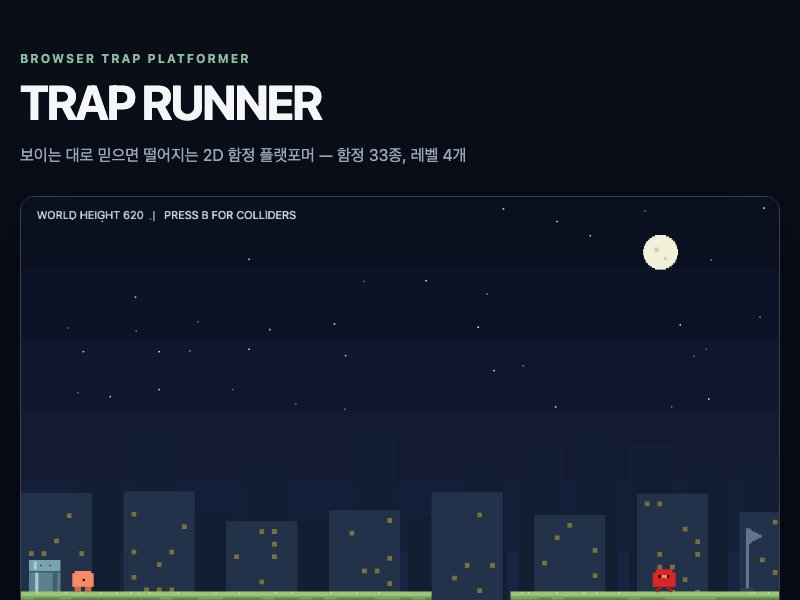
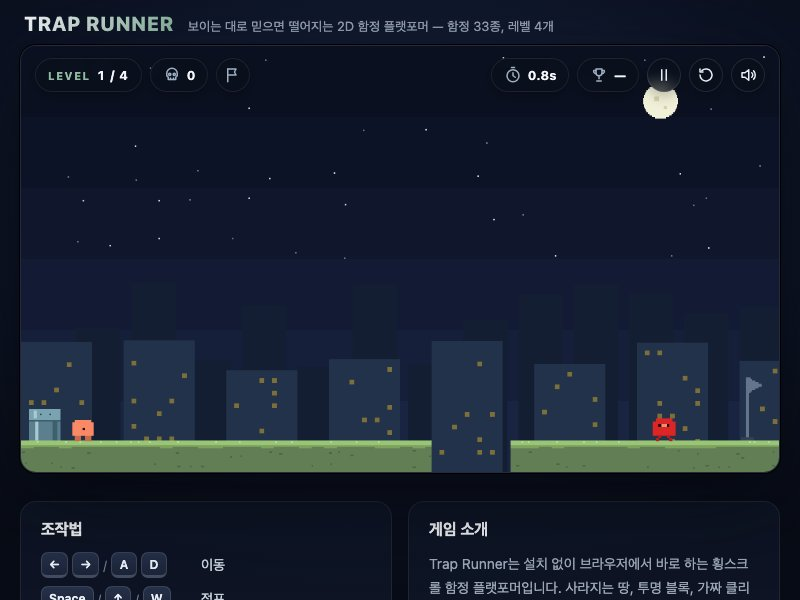
Fit the game screen to the window with a compact header
The game sat under a large hero heading inside a 1120px column, so it
still read as a web page. The header is now one line, the 16:9 stage
grows to the window height on a vignette background, and the controls
and about text move into cards below (keys shown as key caps).

At the larger size a 1x screen stretched the 960px canvas by ~1.46 and
blurred it, so the draw scale now also follows the displayed size (still
integer 1 or 2). On a portrait phone the HUD wrapped over most of the
small stage and the pause menu was squeezed into it, so narrow screens
get a one-row HUD and full-screen menus; touch landscape keeps the full
width. README screenshot and link preview are regenerated.

diff --git a/src/style.css b/src/style.css
@@ -1,4 +1,4 @@
-*{box-sizing:border-box}body{margin:0;background:#090e19;color:#f5f6f8;font-family:Inter,system-ui,-apple-system,sans-serif}.app{max-width:1120px;margin:0 auto;padding:48px 20px}header{margin-bottom:30px}.eyebrow{color:#8fbba0;letter-spacing:.17em;font-size:12px;font-weight:700}h1{font-size:clamp(38px,6vw,64px);letter-spacing:-.05em;margin:8px 0 5px}p{color:#9ca8b8}.game-shell{position:relative;border:1px solid #394050;border-radius:14px;overflow:hidden;box-shadow:0 16px 70px #0008;background:#101729}canvas{display:block;width:100%;height:auto;aspect-ratio:16/9}.death-stats{margin-top:18px;padding:14px 18px;border:1px solid #394050;border-radius:12px;background:#101729}.death-stats h2{margin:0 0 8px;font-size:16px}.death-stats ol{margin:0;padding-left:20px;color:#c7d2dd;font-size:14px;columns:2;column-gap:28px}.death-stats li b{margin-left:6px;color:#fca5a5}.death-stats p{margin:0;font-size:14px}.debug-deaths{border-color:#67e8f9}.debug-deaths button{margin-top:12px;background:#1b2436;color:#eaf1f9;border:1px solid #394050;border-radius:8px;padding:8px 14px;font-size:13px;font-family:inherit;cursor:pointer}@media(max-width:620px){.death-stats ol{columns:1}}.help{font-size:13px;margin-top:25px}.about{margin-top:32px;max-width:720px}.about h2{font-size:18px;margin:0 0 8px}.about p{font-size:14px;line-height:1.7;margin:0}.visually-hidden{position:absolute;width:1px;height:1px;padding:0;margin:-1px;overflow:hidden;clip:rect(0,0,0,0);white-space:nowrap;border:0}@media(max-width:620px){.app{padding:24px 12px}}.touch-controls,.help-touch{display:none}@media(pointer:coarse){.help-keys{display:none}.help-touch{display:block}.touch-controls{display:grid;grid-template-columns:72px 72px 1fr 88px;gap:12px;margin-top:16px}.touch-controls button{height:72px;border-radius:14px;border:1px solid #394050;background:#1b2436;color:#eaf1f9;font-size:24px;touch-action:none;user-select:none;-webkit-user-select:none;-webkit-touch-callout:none}.touch-controls button:active{background:#2c3a55}.touch-controls .touch-jump{grid-column:4}}
+*{box-sizing:border-box}body{margin:0;min-height:100svh;background:radial-gradient(ellipse 90% 70% at 50% 30%,#18233c 0%,#0c1222 55%,#070b15 100%) fixed #070b15;color:#f5f6f8;font-family:Inter,system-ui,-apple-system,sans-serif}.app{max-width:1840px;margin:0 auto;padding:12px 20px 48px}p{color:#9ca8b8}.game-shell{position:relative;width:min(100%,calc((100svh - 76px) * 16 / 9));margin:0 auto;border:1px solid rgba(255,255,255,.09);border-radius:16px;overflow:hidden;box-shadow:0 0 0 1px #000,0 24px 80px rgba(0,0,0,.6),0 0 120px rgba(80,120,200,.08);background:#101729}canvas{display:block;width:100%;height:auto;aspect-ratio:16/9}.death-stats{margin:18px auto 0;max-width:960px;padding:14px 18px;border:1px solid #394050;border-radius:12px;background:#101729}.death-stats h2{margin:0 0 8px;font-size:16px}.death-stats ol{margin:0;padding-left:20px;color:#c7d2dd;font-size:14px;columns:2;column-gap:28px}.death-stats li b{margin-left:6px;color:#fca5a5}.death-stats p{margin:0;font-size:14px}.debug-deaths{border-color:#67e8f9}.debug-deaths button{margin-top:12px;background:#1b2436;color:#eaf1f9;border:1px solid #394050;border-radius:8px;padding:8px 14px;font-size:13px;font-family:inherit;cursor:pointer}@media(max-width:620px){.death-stats ol{columns:1}}.visually-hidden{position:absolute;width:1px;height:1px;padding:0;margin:-1px;overflow:hidden;clip:rect(0,0,0,0);white-space:nowrap;border:0}@media(max-width:620px){.app{padding:8px 10px 32px}}.touch-controls,.help-touch{display:none}@media(pointer:coarse){.help-keys{display:none}.help-touch{display:block}.touch-controls{display:grid;grid-template-columns:72px 72px 1fr 88px;gap:12px;max-width:640px;margin:16px auto 0}.touch-controls button{height:72px;border-radius:14px;border:1px solid #394050;background:#1b2436;color:#eaf1f9;font-size:24px;touch-action:none;user-select:none;-webkit-user-select:none;-webkit-touch-callout:none}.touch-controls button:active{background:#2c3a55}.touch-controls .touch-jump{grid-column:4}}
 
 /* 게임 화면 위 UI(2026-11-24 — 모던 인디 스타일: 둥근 반투명 패널, 흐림, 부드러운 그림자). 캔버스 크기에 맞춰 함께 줄어든다. */
 .game-ui{position:absolute;inset:0;pointer-events:none;font-variant-numeric:tabular-nums}
@@ -43,4 +43,31 @@
 @keyframes fade-in{from{opacity:0}}
 @keyframes pop-in{from{opacity:0;transform:translateY(8px) scale(.97)}}
 @media(prefers-reduced-motion:reduce){.overlay,.panel{animation:none}}
-@media(max-width:620px){.hud{padding:8px}.hud-stat{height:28px;padding:0 9px;font-size:12px}.hud-button,.hud-icon-only{width:28px;height:28px}.panel{padding:16px}.panel h2{font-size:22px}}
+@media(max-width:620px){.panel{padding:16px}.panel h2{font-size:22px}}
+
+/* 페이지 레이아웃(UI 개편 2단계): 한 줄 머리글, 창 높이에 맞춘 게임 화면, 아래쪽 카드. */
+.topbar{display:flex;align-items:baseline;gap:14px;flex-wrap:wrap;max-width:min(100%,calc((100svh - 76px) * 16 / 9));margin:0 auto 10px;padding:0 4px}
+.topbar h1{margin:0;font-size:20px;font-weight:800;letter-spacing:.04em;background:linear-gradient(90deg,#f5f7fa,#8fbba0);-webkit-background-clip:text;background-clip:text;color:transparent}
+.topbar p{margin:0;font-size:13px}
+.info{display:grid;grid-template-columns:repeat(auto-fit,minmax(300px,1fr));gap:16px;max-width:960px;margin:28px auto 0}
+.card{padding:18px 20px;border-radius:16px;background:rgba(17,24,42,.7);border:1px solid rgba(255,255,255,.08)}
+.card h2{margin:0 0 12px;font-size:16px}
+.card p{font-size:14px;line-height:1.7;margin:0}
+.keys{list-style:none;margin:0 0 12px;padding:0;display:grid;gap:8px;font-size:14px;color:#c7d2dd}
+.keys li{display:flex;align-items:center;gap:10px}
+.key-set{display:inline-flex;align-items:center;gap:4px;min-width:150px;color:#6b7a90;font-size:12px}
+kbd{display:inline-grid;place-items:center;min-width:26px;height:26px;padding:0 7px;border-radius:7px;background:linear-gradient(#26314a,#1b2438);border:1px solid rgba(255,255,255,.14);border-bottom-width:3px;color:#eaf1f9;font:600 12px Inter,system-ui,sans-serif}
+.card .help{font-size:12px;line-height:1.6}
+@media(pointer:coarse){.keys.help-keys{display:none}}
+/* 터치 기기 세로: 게임 아래 터치 버튼 자리를 남긴다. 가로는 높이가 낮아 맞추면 너무 작아지므로 예전처럼 너비를 채운다. */
+@media(pointer:coarse) and (orientation:portrait){.game-shell,.topbar{max-width:min(100%,calc((100svh - 190px) * 16 / 9))}.game-shell{width:100%}}
+@media(pointer:coarse) and (orientation:landscape){.game-shell,.topbar{width:100%;max-width:none}}
+/* 좁은 화면: HUD는 한 줄에 들어가게 줄이고(LEVEL 글자·최고 기록·재시작은 숨김, B의 디버그 칸이 더해지면 두 줄) — 최고 기록은 클리어 창, 재시작은 일시정지 창에 있다),
+   일시정지·클리어·완료 창은 작은 게임 화면 대신 화면 전체를 덮는다. */
+@media(max-width:620px){
+.hud{padding:6px;gap:4px}.hud-group{gap:4px}
+.hud-stat{height:24px;padding:0 7px;gap:4px;font-size:11px}.hud-button,.hud-icon-only{width:24px;height:24px}.icon{width:14px;height:14px}
+.hud-label{position:absolute;width:1px;height:1px;overflow:hidden;clip:rect(0,0,0,0);white-space:nowrap}
+.hud-best,.hud-restart{display:none}
+.overlay{position:fixed;z-index:20;padding:16px}
+}

diff --git a/src/App.tsx b/src/App.tsx
@@ -90,8 +90,8 @@ export default function App() {
 
   return (
     <main className="app">
-      <header>
-        <span className="eyebrow">BROWSER TRAP PLATFORMER</span>
+      {/* 게임 화면이 창을 채우도록 머리글은 한 줄로 줄였다(2026-11-24 — UI 개편 2단계). 제목은 여전히 이 페이지의 h1이다. */}
+      <header className="topbar">
         <h1>TRAP RUNNER</h1>
         <p>보이는 대로 믿으면 떨어지는 2D 함정 플랫포머 — 함정 33종, 레벨 4개</p>
       </header>
@@ -114,11 +114,11 @@ export default function App() {
             </div>
             <div className="hud-group">
               <span className="hud-stat" title="이번 런 시간"><ClockIcon /><span className="visually-hidden">TIME </span><b>{snapshot.time.toFixed(1)}s</b></span>
-              <span className="hud-stat" title="최고 기록"><TrophyIcon /><span className="visually-hidden">BEST </span><b>{snapshot.best ? `${snapshot.best.time.toFixed(1)}s / ${snapshot.best.deaths} FALLS` : '—'}</b></span>
+              <span className="hud-stat hud-best" title="최고 기록"><TrophyIcon /><span className="visually-hidden">BEST </span><b>{snapshot.best ? `${snapshot.best.time.toFixed(1)}s / ${snapshot.best.deaths} FALLS` : '—'}</b></span>
               <button type="button" className="hud-button" aria-label="일시정지/재개 (P)" aria-pressed={snapshot.paused} title="일시정지 (P)" onClick={() => game.current?.togglePause()}>
                 {snapshot.paused ? <PlayIcon /> : <PauseIcon />}
               </button>
-              <button type="button" className="hud-button" aria-label="재시작 (R)" title="재시작 (R)" onClick={() => game.current?.restart()}><RestartIcon /></button>
+              <button type="button" className="hud-button hud-restart" aria-label="재시작 (R)" title="재시작 (R)" onClick={() => game.current?.restart()}><RestartIcon /></button>
               <button type="button" className="hud-button" aria-label="음소거 (M)" aria-pressed={snapshot.muted} title="음소거 (M)" onClick={() => game.current?.toggleMute()}>
                 <SoundIcon muted={snapshot.muted} />
               </button>
@@ -204,18 +204,31 @@ export default function App() {
           <button type="button" onClick={() => game.current?.clearDeathLog()}>누적 사망 기록 지우기 (모든 레벨)</button>
         </section>
       )}
-      {/* 입력 방식에 맞는 안내만 보인다(style.css의 pointer: coarse 미디어 쿼리) */}
-      <p className="help help-keys">← → / A D 이동 · Space / ↑ / W 점프 · R 재시작 · B 충돌 박스 표시 · P 일시정지 · M 음소거 · N 다음 레벨(클리어 후)</p>
-      <p className="help help-keys">게임패드: 방향 패드 / 왼쪽 스틱 이동 · A / ↑ 점프 · Start 일시정지 · Select(Back) 재시작 · Y 다음 레벨(클리어 후)</p>
-      <p className="help help-touch">◀ ▶ 버튼을 누르고 있는 동안 이동 · ▲ 점프 · 일시정지·재시작·음소거·다음 레벨은 화면의 버튼으로</p>
-      <section className="about">
-        <h2>게임 소개</h2>
-        <p>
-          Trap Runner는 설치 없이 브라우저에서 바로 하는 횡스크롤 함정 플랫포머입니다. 사라지는 땅, 투명 블록, 가짜 클리어 깃발,
-          뒤를 따라오는 그림자처럼 처음 보면 당할 수밖에 없는 함정 33종이 레벨 4개에 숨어 있습니다. 죽으면 무엇에 당했는지 화면에
-          표시되니, 다음 시도에서 피해 보세요. 체크포인트에서 다시 시작하고, 레벨마다 최고 기록(시간·떨어진 횟수)이 브라우저에 저장됩니다.
-        </p>
-      </section>
+      <div className="info">
+        <section className="card" aria-label="조작법">
+          <h2>조작법</h2>
+          {/* 입력 방식에 맞는 안내만 보인다(style.css의 pointer: coarse 미디어 쿼리) */}
+          <ul className="keys help-keys">
+            <li><span className="key-set"><kbd>←</kbd> <kbd>→</kbd> / <kbd>A</kbd> <kbd>D</kbd></span> 이동</li>
+            <li><span className="key-set"><kbd>Space</kbd> / <kbd>↑</kbd> / <kbd>W</kbd></span> 점프</li>
+            <li><span className="key-set"><kbd>R</kbd></span> 재시작</li>
+            <li><span className="key-set"><kbd>P</kbd></span> 일시정지</li>
+            <li><span className="key-set"><kbd>M</kbd></span> 음소거</li>
+            <li><span className="key-set"><kbd>N</kbd></span> 다음 레벨(클리어 후)</li>
+            <li><span className="key-set"><kbd>B</kbd></span> 충돌 박스 표시</li>
+          </ul>
+          <p className="help help-keys">게임패드: 방향 패드 / 왼쪽 스틱 이동 · A / ↑ 점프 · Start 일시정지 · Select(Back) 재시작 · Y 다음 레벨(클리어 후)</p>
+          <p className="help help-touch">◀ ▶ 버튼을 누르고 있는 동안 이동 · ▲ 점프 · 일시정지·재시작·음소거·다음 레벨은 화면의 버튼으로</p>
+        </section>
+        <section className="card about" aria-label="게임 소개">
+          <h2>게임 소개</h2>
+          <p>
+            Trap Runner는 설치 없이 브라우저에서 바로 하는 횡스크롤 함정 플랫포머입니다. 사라지는 땅, 투명 블록, 가짜 클리어 깃발,
+            뒤를 따라오는 그림자처럼 처음 보면 당할 수밖에 없는 함정 33종이 레벨 4개에 숨어 있습니다. 죽으면 무엇에 당했는지 화면에
+            표시되니, 다음 시도에서 피해 보세요. 체크포인트에서 다시 시작하고, 레벨마다 최고 기록(시간·떨어진 횟수)이 브라우저에 저장됩니다.
+          </p>
+        </section>
+      </div>
       <p className="visually-hidden" role="status" aria-live="polite">{announcement}</p>
     </main>
   );

diff --git a/tests/unit/rendering/terrain.test.ts b/tests/unit/rendering/terrain.test.ts
@@ -94,6 +94,30 @@ describe('ground edges land on whole device pixels', () => {
   }
 });
 
+describe('drawing scale follows the displayed size', () => {
+  // 게임 화면이 창을 채우게 커지면(UI 개편 2단계) 기기 픽셀 비율 1에서도 960px보다 넓게 보인다 — 1배로 그려 CSS가 키우면 흐려지므로
+  // 보이는 기기 픽셀 폭에 맞춰 2배로 그린다. 정수 배율 1·2 규칙은 그대로다.
+  const backingWidth = (dpr: number, cssWidth: number): number => {
+    vi.stubGlobal('devicePixelRatio', dpr);
+    const canvas = document.createElement('canvas');
+    Object.defineProperty(canvas, 'clientWidth', { value: cssWidth });
+    vi.spyOn(canvas, 'getContext').mockReturnValue(recorder().ctx);
+    new CanvasRenderer(canvas, () => false).render(new World(testLevel({ solids: [] })), { fps: 60, steps: 1 });
+    vi.unstubAllGlobals();
+    return canvas.width;
+  };
+  it('draws at 1x when shown at 960px or less on a 1x screen, and at 2x when shown wider', () => {
+    expect(backingWidth(1, 0)).toBe(960); // 크기를 모름(테스트 환경) — 기기 픽셀 비율만
+    expect(backingWidth(1, 960)).toBe(960);
+    expect(backingWidth(1, 1400)).toBe(1920);
+  });
+  it('keeps 2x on HiDPI screens and never goes above 2x', () => {
+    expect(backingWidth(2, 700)).toBe(1920);
+    expect(backingWidth(1.5, 1400)).toBe(1920);
+    expect(backingWidth(1, 3000)).toBe(1920);
+  });
+});
+
 describe('terrain features', () => {
   const shot = (world: World, area: Rect): Map<string, string> => {
     const canvas = document.createElement('canvas');

diff --git a/src/game/rendering/CanvasRenderer.ts b/src/game/rendering/CanvasRenderer.ts
@@ -123,7 +123,10 @@ export class CanvasRenderer {
     if (!ctx) return;
     // 정수 배율(1 또는 2)로 그리고 화면 크기는 CSS가 맞춘다. 정수가 아닌 배율(1.25·1.5)이나 소수 카메라 위치에서는 맞닿은 두 사각형의
     // 경계가 기기 픽셀 중간에 걸려 양쪽이 안티앨리어싱되고 배경이 비쳐 이음매가 보였다 — 위장 바닥의 위치가 드러났다.
-    const scale = Math.min(Math.ceil(window.devicePixelRatio || 1), 2);
+    // 화면에 크게 보일 때(게임 화면이 창을 채우는 레이아웃)는 기기 픽셀 비율이 1이어도 2배로 그려, CSS가 키우는(흐려지는) 대신
+    // 줄이게 한다. 배율은 여전히 정수 1·2다.
+    const dpr = window.devicePixelRatio || 1;
+    const scale = Math.min(Math.max(Math.ceil(dpr), Math.ceil((this.canvas.clientWidth * dpr) / VIEW_WIDTH - 1e-9)), 2);
     const width = Math.round(VIEW_WIDTH * scale), height = Math.round(VIEW_HEIGHT * scale);
     if (this.canvas.width !== width || this.canvas.height !== height) { this.canvas.width = width; this.canvas.height = height; }
     ctx.setTransform(scale, 0, 0, scale, 0, 0);

diff --git a/docs/history.md b/docs/history.md
@@ -179,6 +179,7 @@
 
 ## 완료된 백로그 작업
 백로그에서 끝낸 작업(최근 것이 위).
+- [x] 페이지 레이아웃(2026-11-24 — UI 개편 2/3, 다음은 캐릭터·지형 그림) — 큰 제목 아래 박혀 있던 게임 화면을, 한 줄 머리글 아래 창 높이에 맞춰 커지는 16:9 무대로 바꿨다(`docs/game-design.md` "화면(UI)"). 조작법은 키캡 모양 목록 카드, 게임 소개는 그 옆 카드. 화면이 커지면서 기기 픽셀 비율 1에서 960px 캔버스를 CSS로 1.46배 키워 흐려지므로, 그리기 배율을 보이는 크기에도 맞춰 2배로 그린다(정수 1·2 규칙 유지, `terrain.test.ts`의 "drawing scale follows the displayed size" — 예전 식으로 되돌리면 실패). 휴대폰 세로(375px)에서 1단계 HUD가 두 줄로 게임 화면 대부분을 가리고 일시정지 창이 200px 높이 화면 안에 끼어 있어, 좁은 화면에서는 HUD를 한 줄로 줄이고 창을 화면 전체로 띄운다. 처음엔 좁은 화면에서 B의 디버그 칸도 숨겼다가 터치 기기 E2E(위치를 읽음)가 실패해 되돌렸다. README 스크린샷과 링크 미리보기를 `pnpm shots`로 다시 찍었다.
 - [x] 게임 화면 위 HUD·메뉴(2026-11-24, 프로젝트 오너 요청 "진짜 게임 같은 UI" — UI 개편 1/3, 다음은 페이지 레이아웃·캐릭터·지형 그림) — 캔버스 아래 글자 줄이던 HUD와 버튼 줄, 캔버스 아래 HTML 상자이던 클리어·완료 화면, 캔버스에 그리던 PAUSED·LEVEL CLEAR 글자를 캔버스 위에 겹친 React 층으로 옮겼다(`docs/game-design.md` "화면(UI)", 모던 인디 스타일). STATUS·SOUND 글자 칸은 없애고 일시정지 창·음소거 버튼의 눌림 상태로 보인다. 음량 슬라이더는 일시정지 창으로 옮겼다. 개발자 문구는 B에서만, HUD에 가리지 않게 왼쪽 아래로. 버튼 이름(일시정지/재개 (P) 등)은 그대로 둬 접근성 이름이 바뀌지 않는다. 테스트: App(정지·클리어·완료 창의 조건과 내용, 아이콘 옆 스크린 리더 라벨), E2E는 HUD 선택자(`.hud .hud-stat`)와 STATUS·SOUND·음량을 쓰던 검사를 일시정지 창·`aria-pressed`로 바꿨다. 가짜 클리어 E2E로 실제 클리어 창을 캡처해 확인했다. README 스크린샷은 레이아웃까지 바꾼 뒤 다시 찍는다.
 - [x] 누적 사망 기록(2026-11-24, 프로젝트 오너 결정 — 게임성 개선 추천 3번) — 이번 런 통계·표식은 저장하지 않아, 어디가 불공정하게 어려운지 판단할 근거가 점프 여유 측정뿐이었다. 레벨마다 원인별 사망 수와 사망 자리를 localStorage(`trap-runner:deaths:v1:<레벨>:<레벨 데이터 해시>`)에 쌓고 B를 켰을 때만 맵 위 하늘색 표식과 HUD 아래 목록으로 보여 준다(`docs/game-design.md` "기록"). 오너 결정: B에서만 지도+목록, 디버그 패널의 버튼으로 모든 레벨을 지움, 배치가 바뀌면 새로 시작. `World`는 저장소를 모르고 `lastDeath`만 남기며 저장은 `core/deathLogStore.ts`가 맡는다. 이번 런 표식과 같은 합치기 규칙을 `addDeathMarkAt`으로 함께 쓴다. 사망마다 저장소를 다시 읽어 더해 같은 레벨을 연 다른 탭의 사망을 덮어쓰지 않고, `storage` 이벤트로 표시도 맞춘다. 테스트: 저장소 단위(합치기·다른 탭·배치 해시·500곳 상한·깨진 값·지우기·저장소 차단), 컨트롤러(실제 낙사로 저장·다음 세션·B에서만 스냅샷·렌더러 전달·지우기·다른 탭), `lastDeath`, 렌더러(B에서만·다른 색·화면 밖 생략), HUD 패널, E2E(실제로 죽고 새로고침해도 남고 버튼으로 지움). 변이 확인 11가지(기록 안 함·다시 읽지 않음·해시 없는 키·상한 없음·알 수 없는 원인 허용·B 없이 그림·B 없이 HUD·다른 탭 무시·지우기 뒤 메모리 유지·R 뒤 lastDeath 유지·렌더러 미전달)가 모두 실패한다 — 처음엔 상한을 빼도 다음 읽기에서 잘려 통과해 테스트를 보강했다. 개발 서버에서 실제로 첫 함정에 다섯 번 죽고 새로고침한 뒤 B로 패널(숨겨진 블록 ×5)과 맵의 하늘색 ×5 표식을 확인하고, 버튼으로 지워지는 것을 확인했다.
 - [x] 코요테 타임(2026-11-23, 프로젝트 오너 결정 — 점프 입력 버퍼에 이어 게임성 개선 1순위의 나머지) — 걸어서 가장자리를 벗어난 뒤 6스텝(0.1초) 동안 공중에서도 뛸 수 있게 했다(`docs/physics-spec.md` "코요테 타임"). 발밑이 사라진 경우·점프·트램펄린·강제 비행에서는 주지 않는다. 시험 구현에서 레벨 2의 날려버리는 점프·무거운 신발 구역(가장자리에서 끝남)을 "가장자리를 지나친 뒤 공중에서 뛰기"로 피할 수 있음을 찾아, 오너 결정으로 코요테 점프를 마지막으로 서 있던 자리 기준으로 판정한다(진흙 점프 포함). 바람 구덩이와 레벨 3 발판 전용 구덩이는 코요테 점프로도 못 건넘을 확인했다. `pnpm slack 1 2 3 4`를 코요테 없이(`COYOTE_STEPS = 0`)와 비교하면 줄어든 점프는 없고 바닥에서 뛰는 점프 다수의 늦게 쪽 여유가 6프레임 늘었다. 레벨 2·3 세 번째 착지 발판의 늦게 뛰기(5 → 11)가 하한을 넘어 `pinned` 예외에서 뺐다(남은 예외는 레벨 3 높이 60px 가짜 체크포인트 3프레임). 변이 확인: 코요테 길이를 0·5·7로, 발밑이 사라질 때·트램펄린·점프 때 비우지 않게, 재시작 때 비우지 않게, 구역·진흙을 지금 위치로 판정하게 바꾸면 각각 `CoyoteTime.test.ts`가 실패한다. 강제 비행에서 비우는 줄은 `!this.flight` 조건과 겹쳐 변이가 잡히지 않아 지웠다.

diff --git a/.claude/rules/rendering.md b/.claude/rules/rendering.md
@@ -6,7 +6,7 @@ paths:
 # 렌더링 지침
 - 렌더링은 시뮬레이션 상태를 변경하면 안 됩니다.
 - CanvasRenderingContext2D를 통한 그리기와 게임플레이 갱신을 분리합니다.
-- 브라우저 픽셀 비율과 카메라 변환을 명시적으로 정규화합니다. 그리기 배율은 정수(1·2)로, 카메라는 기기 픽셀 단위로 맞춥니다 — 맞닿은 사각형의 경계가 픽셀 중간에 걸리면 안티앨리어싱 이음매가 생겨 위장 바닥이 드러납니다(`terrain.test.ts`의 "ground edges land on whole device pixels").
+- 브라우저 픽셀 비율과 카메라 변환을 명시적으로 정규화합니다. 그리기 배율은 정수(1·2)로 — 기기 픽셀 비율과 화면에 보이는 크기 중 큰 쪽에 맞춰, CSS가 줄이게 합니다(키우면 흐려짐) — 카메라는 기기 픽셀 단위로 맞춥니다 — 맞닿은 사각형의 경계가 픽셀 중간에 걸리면 안티앨리어싱 이음매가 생겨 위장 바닥이 드러납니다(`terrain.test.ts`의 "ground edges land on whole device pixels").
 - 애니메이션 프레임 안에서 에셋을 불러오지 않으며, 소유한 자원을 정리합니다.
 - 바닥으로 위장한 함정, 가짜 체크포인트·가짜 클리어 깃발·가짜 벽처럼 처음엔 구분되면 안 되는 것은 진짜와 같은 그리기 함수(`terrain.ts`의 `drawGround`·`drawBlock`, `props.ts`)와 같은 애니메이션 프레임으로 그립니다. 같은 자리에서 진짜와 픽셀 단위로 같은지 `terrain.test.ts`·`props.test.ts`로 확인합니다.
 - 지형 무늬는 월드 좌표로만 정하고 테두리를 넣지 않습니다(잘라 그린 바닥에 이음매가 생기면 위장이 깨집니다). 움직이는 것은 움직인 만큼 무늬를 함께 옮깁니다.

diff --git a/docs/game-design.md b/docs/game-design.md
@@ -21,6 +21,8 @@
 - **일시정지 창**: 정지하면(P·HUD 버튼·탭 숨김·게임패드 Start) 게임 위에 어둡게 깔린 창 — 계속하기(P)·처음부터 다시(R)·소리 끄기/켜기(M)·음량 슬라이더. 클리어 창이 떠 있으면 클리어 창이 우선입니다.
 - **클리어 창**: LEVEL n, CLEAR! 또는 NEW RECORD!, 시간·떨어짐·최고 기록, 이번 런에서 당한 함정, 다음 레벨(N). 가짜 클리어(#14)도 같은 창입니다(구분되면 안 됨).
 - **완료 창**: 마지막 레벨을 클리어하면 클리어 창 대신 — 레벨별 최고 기록과 이번 판에서 가장 많이 당한 함정, 이번 런에서 당한 함정, 레벨 1부터 다시(N).
+- **페이지 레이아웃**(UI 개편 2단계): 머리글은 한 줄(제목 TRAP RUNNER와 한 줄 소개)로 줄이고, 게임 화면이 16:9를 지키며 창 높이에 맞춰 커집니다(가장자리에 은은한 비네트 배경). 그 아래에 "조작법"(키를 키캡 모양으로)·"게임 소개" 카드를 둡니다. 터치 기기 세로에서는 게임 아래 터치 버튼 자리를 남기고, 가로에서는 너비를 채웁니다.
+- **좁은 화면(폭 620px 이하)**: HUD를 한 줄로 줄입니다 — LEVEL 글자(스크린 리더용으로는 남김)·최고 기록·재시작 버튼은 숨기고(최고 기록은 클리어 창, 재시작은 일시정지 창에 있음), B의 디버그 칸이 더해질 때만 두 줄. 일시정지·클리어·완료 창은 작은 게임 화면 대신 화면 전체를 덮습니다.
 - 캔버스에는 게임 장면과 놀리는 문구·사망 원인 표시만 그립니다. 개발자용 문구(월드 높이·FPS·속도)는 B를 켰을 때만 왼쪽 아래에 씁니다.
 
 ## 기록
